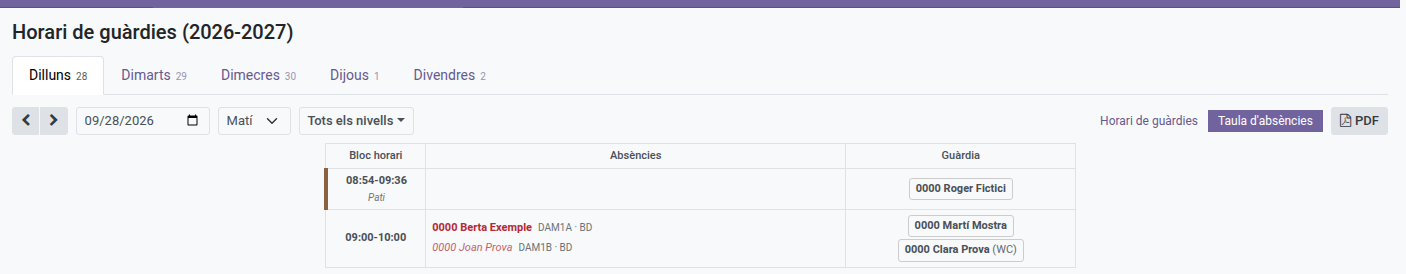
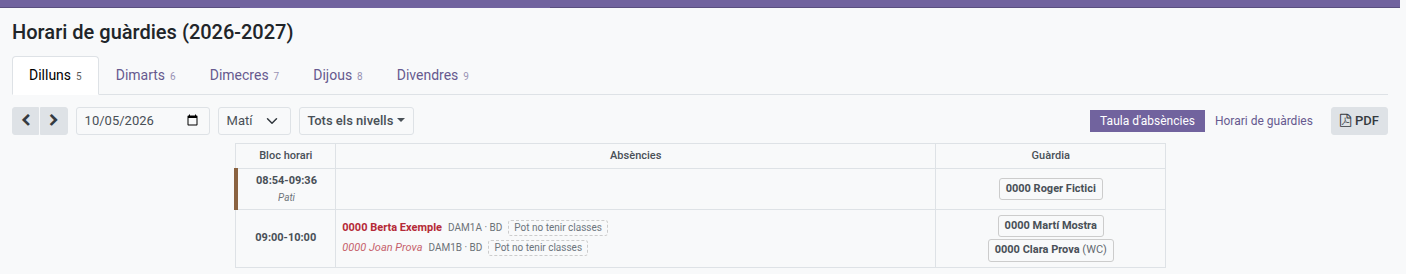
[DOC] Absences: screenshots of organising absences from the absences table (#539, #571, #581)
Existing guard board captures follow the swapped view tabs.

diff --git a/tests/test_docs_screenshots_teachers.py b/tests/test_docs_screenshots_teachers.py
@@ -450,20 +450,113 @@ class TestDocsScreenshotsTeachers(DocsScreenshotMixin, HttpCase):
             '.o_guard_board_guard_cell .o_guard_board_guard_badge',
         ]
 
+        # The board opens on the absences table (the first of its two views); the timetable is the
+        # second one.
         self._capture(
             '/odoo/action-ems.action_guard_duty_board',
             '.o_guard_board', 'guard-duty-01-horari.png',
             login='doc_shot_teacher', wait_for='.o_guard_board_toolbar',
-            run=force_monday_morning, wait_after=force_monday_morning_wait,
+            run=force_monday_morning + [
+                "document.querySelector('.o_guard_board_view_tabs .nav-item:nth-of-type(2) .nav-link').click();",
+            ],
+            wait_after=force_monday_morning_wait + ['.o_guard_board_table:not(.o_guard_board_duty_table)'],
         )
         self._capture(
             '/odoo/action-ems.action_guard_duty_board',
             '.o_guard_board', 'guard-duty-02-absencies.png',
             login='doc_shot_teacher', wait_for='.o_guard_board_toolbar',
-            run=force_monday_morning + [
-                "document.querySelector('.o_guard_board_view_tabs .nav-item:nth-of-type(2) .nav-link').click();",
-            ],
+            run=force_monday_morning,
             wait_after=force_monday_morning_wait + ['.o_guard_board_duty_table'],
+        )
+
+    def test_capture_guard_duty_management(self):
+        """Organising absences from the absences table (issues #539, #571, #581), as the absent
+        teachers' Department Chief, on next Monday (a past day is read-only): a late entry
+        proposal, two classes covered by two guards (two colours), the guard dialog and the draft
+        notice. Every name and group is invented."""
+        if not self.env.company.current_course_id:
+            self.env.company.current_course_id = self.env['ems.course'].create({'start': 1998, 'end': 1999})
+        mock_outgoing_email(self)
+        level, study, group_a = create_level_study_group(self, 'DOCMGMT', level={
+            'name': 'Formació professional',
+        }, study={
+            'code': 'DOCMGMT01', 'acronym': 'DAM', 'name': "Desenvolupament d'aplicacions multiplataforma",
+        }, group={'acronym': 'A', 'course': 1})
+        group_b, group_c = (self.env['ems.group'].create({
+            'course': 1, 'acronym': acronym, 'level_id': level.id, 'study_id': study.id}) for acronym in ('B', 'C'))
+        subject = self.env['ems.subject'].create({
+            'code': 'DOCMGMTSUB', 'acronym': 'BD', 'name': 'Bases de dades', 'study_ids': [(6, 0, [study.id])]})
+        chief_user = create_role_user(self, 'department_chief', 'doc_shot_chief', lang='ca_ES', name='Cap Exemple')
+        chief = create_role_employee(self, chief_user)
+        department = self.env['hr.department'].create({'name': 'Departament Exemple', 'manager_id': chief.id})
+
+        def teacher(name, periods, group=None, non_teaching=None):
+            employee = self.env['hr.employee'].create({
+                'name': name, 'employee_type': 'teacher', 'department_id': department.id})
+            employee.parent_id = chief
+            calendar = self.env['resource.calendar'].create({
+                'name': f'{name} Calendar', 'employee_id': employee.id, 'attendance_ids': [(5, 0, 0)]})
+            employee.resource_calendar_id = calendar
+            calendar.apply_schedule_changes([{
+                'dayofweek': '0', 'hour_from': hour_from, 'hour_to': hour_to, 'day_period': 'morning',
+                **({'non_teaching': non_teaching.id, 'name': 'Guàrdia'} if non_teaching else
+                   {'subject_id': subject.id, 'group_ids': [group.id], 'name': 'DOCMGMT: BD'}),
+            } for hour_from, hour_to in periods])
+            return employee
+
+        berta = teacher('0000 Berta Exemple', ((8, 9), (9, 10)), group_a)
+        teacher('0000 Jordi Mostra', ((10, 11),), group_a)
+        pau = teacher('0000 Pau Prova', ((9, 10),), group_b)
+        teacher('0000 Anna Fictícia', ((8, 9), (10, 11)), group_b)
+        laura = teacher('0000 Laura Exemple', ((9, 10),), group_c)
+        teacher('0000 Iris Mostra', ((8, 9), (10, 11)), group_c)
+        guard = self.env.ref('ems.non_teaching_g')
+        marti = teacher('0000 Martí Mostra', ((8, 9), (9, 10), (10, 11)), non_teaching=guard)
+        roger = teacher('0000 Roger Fictici', ((8, 9), (9, 10), (10, 11)), non_teaching=guard)
+        teacher('0000 Clara Prova', ((8, 9), (9, 10), (10, 11)), non_teaching=guard)
+
+        day = self.env['ems.datetime_utils'].get_local_today() + timedelta(days=1)
+        while day.weekday() != 0:
+            day += timedelta(days=1)
+        for employee, hours in ((berta, (8, 10)), (pau, (9, 10)), (laura, (9, 10))):
+            self.env['hr.leave'].create({
+                'employee_id': employee.id, 'holiday_status_id': self.env.ref('ems.leave_type_justified').id,
+                'request_date_from': day, 'request_date_to': day, 'ems_full_day': False,
+                'request_hour_from': hours[0], 'request_hour_to': hours[1],
+                'ems_submitted': True, 'ems_responsible_declaration': True,
+            }).action_approve()
+        Cover = self.env['ems.absence_cover']
+        Cover.board_assign(str(day), 9, 10, pau.id, group_b.id, marti.id, "Exercicis de la pàgina 12")
+        Cover.board_assign(str(day), 9, 10, laura.id, group_c.id, roger.id, "Repàs del tema 3")
+
+        # Only this fixture's rows, never the dev DB's real timetable (see test_capture_guard_duty_schedule).
+        fixture_ids = department.member_ids.ids
+        course_model = type(self.env['ems.course'])
+        original = course_model._get_guard_duty_board_attendance_ids
+        patcher = patch.object(course_model, '_get_guard_duty_board_attendance_ids', lambda course: original(course).filtered(
+            lambda attendance: attendance.calendar_id.employee_id.id in fixture_ids))
+        patcher.start()
+        self.addCleanup(patcher.stop)
+
+        # The board keeps its day, shift and view in the URL, so it opens straight on next Monday.
+        url = f'/odoo/action-ems.action_guard_duty_board?date={day}&shift=morning&view=table'
+        self._capture(
+            url, '.o_guard_board', 'guard-duty-03-organitzar.png', login='doc_shot_chief',
+            wait_for='.o_guard_board_proposals .o_guard_board_action_option',
+        )
+        self._capture(
+            url, '.modal-content', 'guard-duty-04-enviar-guardia.png', login='doc_shot_chief',
+            wait_for='.o_guard_board_proposals .o_guard_board_action_option',
+            run=["""[...document.querySelectorAll('.o_guard_board_duty_table tr')]
+                    .find((row) => row.textContent.includes('09:00-10:00'))
+                    .querySelector('.o_guard_board_absence_manageable:not(.o_guard_board_absence_struck)').click();"""],
+            wait_after=['.o_guard_cover_guard_select'],
+        )
+        self._capture(
+            url, '.o_form_view .o_form_sheet', 'guard-duty-05-comunicat.png', login='doc_shot_chief',
+            wait_for='.o_guard_board_proposals .o_guard_board_action_option',
+            run=["document.querySelector('.o_guard_board_proposals .o_guard_board_action_button').click();"],
+            wait_after=['.o_form_view .alert-info'], max_height=760,
         )
 
     def test_capture_photo_visibility(self):

diff --git a/docs/es/teachers/guard-duty-schedule.md b/docs/es/teachers/guard-duty-schedule.md
@@ -100,12 +100,16 @@ Quién puede hacerlo: el **Jefe de seminario** o el **Jefe de departamento** del
 
 Todo se hace desde la **Tabla de ausencias**, y nada ocurre solo: cada paso espera a que pulses su botón. Un día que ya ha pasado no se puede cambiar.
 
+![Tabla de ausencias como Jefe de departamento: una propuesta de entrada tarde y dos clases cubiertas por dos docentes de guardia, cada uno con su color](../../assets/teachers/guard-duty-03-organitzar.png)
+
 ### Enviar un docente de guardia a una clase
 
 1. Haz clic en la línea de la clase que hay que cubrir (las líneas que puedes organizar muestran el cursor de mano).
 2. Elige el **Docente de guardia**. Solo se ofrecen los docentes de guardia en esa franja, salvo los de guardia de WC y los que también están ausentes.
 3. Opcionalmente, escribe un **mensaje**: qué tiene que trabajar el alumnado, dónde están los materiales...
 4. Haz clic en **Asignar y avisar**.
+
+![Enviar un docente de guardia a una clase: los docentes de guardia y un mensaje para ellos](../../assets/teachers/guard-duty-04-enviar-guardia.png)
 
 El docente de guardia recibe un mensaje de Odoo (en su bandeja de entrada o por correo, según su preferencia de notificaciones) con la fecha, la hora, el grupo, la asignatura, el aula, el docente ausente y tu mensaje.
 
@@ -122,6 +126,8 @@ Esas líneas muestran una etiqueta discontinua como **Puede entrar a las 10:00**
 El selector de cada propuesta te permite comunicar a las familias menos de lo que permiten las ausencias: con dos clases sin docente, puedes elegir **Entra a las 09:00** en lugar de **Entra a las 10:00**. Entonces solo se tacha la primera clase; la segunda sigue necesitando un docente de guardia, que envías como siempre. Elegir el cambio más corto es decisión tuya: nada te pedirá que lo rectifiques.
 
 **Proponer comunicado** abre un comunicado en borrador dirigido al alumnado y las familias de ese grupo, con un texto propuesto que puedes cambiar. Envíalo desde ese formulario como cualquier otro comunicado (los grupos de un comunicado de cambio de horario no se pueden cambiar). Si lo dejas en borrador, la próxima vez el botón dice **Abrir borrador**.
+
+![Borrador de comunicado propuesto por el cuadrante, con el cambio de horario y el texto propuesto](../../assets/teachers/guard-duty-05-comunicat.png)
 
 Una vez enviado (o programado) el comunicado, esas líneas quedan tachadas con una etiqueta como **Entra a las 10:00**: no hace falta enviar a nadie.
 

diff --git a/docs/ca/teachers/guard-duty-schedule.md b/docs/ca/teachers/guard-duty-schedule.md
@@ -100,12 +100,16 @@ Qui ho pot fer: el **Cap de seminari** o el **Cap de departament** del docent ab
 
 Tot es fa des de la **Taula d'absències**, i res no passa sol: cada pas espera que en premis el botó. Un dia que ja ha passat no es pot canviar.
 
+![Taula d'absències com a Cap de departament: una proposta d'entrada tard i dues classes cobertes per dos docents de guàrdia, cadascun amb el seu color](../../assets/teachers/guard-duty-03-organitzar.png)
+
 ### Enviar un docent de guàrdia a una classe
 
 1. Fes clic a la línia de la classe que cal cobrir (les línies que pots organitzar mostren el cursor de mà).
 2. Tria el **Docent de guàrdia**. Només s'ofereixen els docents de guàrdia en aquella franja, excepte els de guàrdia de WC i els que també estan absents.
 3. Opcionalment, escriu un **missatge**: què ha de treballar l'alumnat, on són els materials...
 4. Fes clic a **Assignar i avisar**.
+
+![Enviar un docent de guàrdia a una classe: els docents de guàrdia i un missatge per a ells](../../assets/teachers/guard-duty-04-enviar-guardia.png)
 
 El docent de guàrdia rep un missatge d'Odoo (a la safata d'entrada o per correu, segons la seva preferència de notificacions) amb la data, l'hora, el grup, l'assignatura, l'aula, el docent absent i el teu missatge.
 
@@ -122,6 +126,8 @@ Aquestes línies mostren una etiqueta discontínua com ara **Pot entrar a les 10
 El selector de cada proposta et permet comunicar a les famílies menys del que permeten les absències: amb dues classes sense docent, pots triar **Entra a les 09:00** en lloc d'**Entra a les 10:00**. Aleshores només es ratlla la primera classe; la segona encara necessita un docent de guàrdia, que envies com sempre. Triar el canvi més curt és decisió teva: res no et demanarà que el rectifiquis.
 
 **Proposar comunicat** obre un comunicat en esborrany adreçat a l'alumnat i les famílies d'aquell grup, amb un text proposat que pots canviar. Envia'l des d'aquell formulari com qualsevol altre comunicat (els grups d'un comunicat de canvi d'horari no es poden canviar). Si el deixes en esborrany, la propera vegada el botó diu **Obrir esborrany**.
+
+![Esborrany de comunicat proposat pel quadrant, amb el canvi d'horari i el text proposat](../../assets/teachers/guard-duty-05-comunicat.png)
 
 Un cop enviat (o programat) el comunicat, aquestes línies queden ratllades amb una etiqueta com ara **Entra a les 10:00**: no cal enviar-hi ningú.
 

diff --git a/docs/en/teachers/guard-duty-schedule.md b/docs/en/teachers/guard-duty-schedule.md
@@ -100,12 +100,16 @@ Who can do this: the absent teacher's **Seminar Chief** or **Department Chief**,
 
 Everything is done from the **Absences table**, and nothing happens on its own: each step waits for you to press its button. A day that is already over can no longer be changed.
 
+![Absences table as a Department Chief: a late entry proposal, and two classes covered by two guards, each in its own colour](../../assets/teachers/guard-duty-03-organitzar.png)
+
 ### Sending a guard to a class
 
 1. Click the line of the class to cover (lines you can organise show a hand pointer).
 2. Choose the **Guard teacher**. Only the teachers on guard duty in that time block are offered, except those on a WC guard and those who are away themselves.
 3. Optionally, write a **message**: what the students have to work on, where the materials are...
 4. Click **Assign and notify**.
+
+![Sending a guard teacher to a class: the guards on duty and a message for them](../../assets/teachers/guard-duty-04-enviar-guardia.png)
 
 The guard teacher receives an Odoo message (in their inbox, or by email, depending on their own notification preference) with the date, time, group, subject, classroom, the absent teacher and your message.
 
@@ -122,6 +126,8 @@ Those lines show a dashed tag such as **Could start at 10:00**, and the **Late e
 The selector next to each proposal lets you tell the families about less than the absences allow: with two lessons without a teacher, you can choose **Starts at 09:00** instead of **Starts at 10:00**. Only the first lesson is then struck out; the second still needs a guard, sent as usual. Choosing the smaller change is your decision: nothing will ask you to correct it.
 
 **Propose notice** opens a draft notice addressed to that group's students and families, with a suggested text you can change. Send it from that form as any other notice (the groups of a timetable change notice cannot be changed). If you leave it as a draft, the button reads **Open draft** next time.
+
+![Draft notice proposed by the board, with the timetable change and the suggested text](../../assets/teachers/guard-duty-05-comunicat.png)
 
 Once the notice is sent (or scheduled), those lines are struck through with a tag such as **Starts at 10:00**: nobody needs to be sent to them.
 
